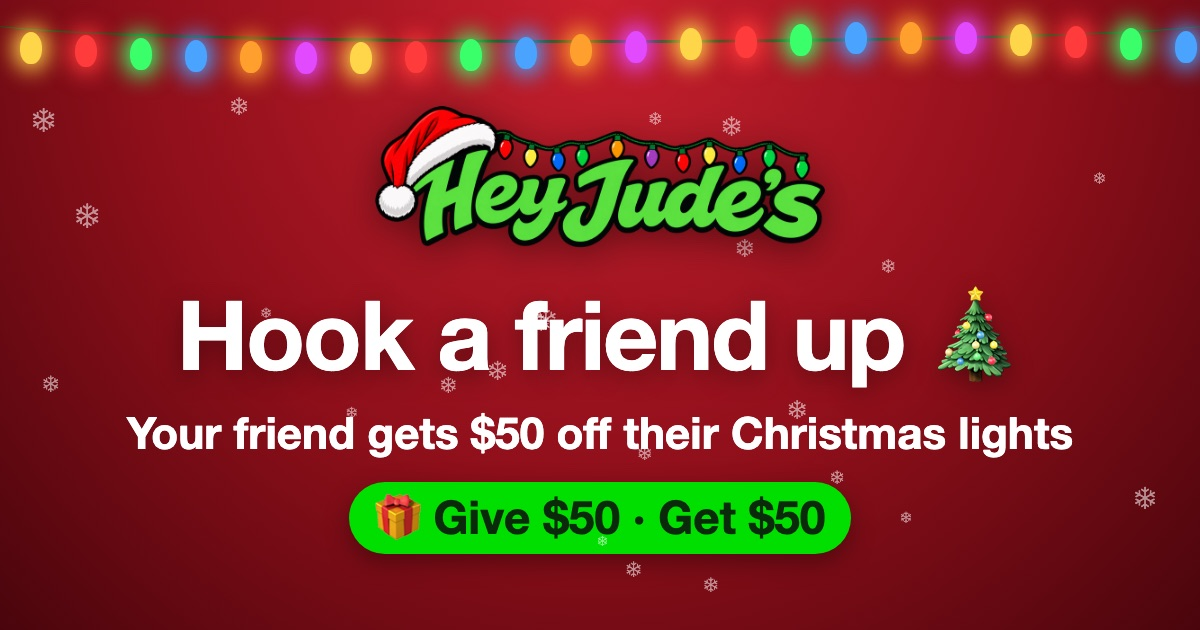
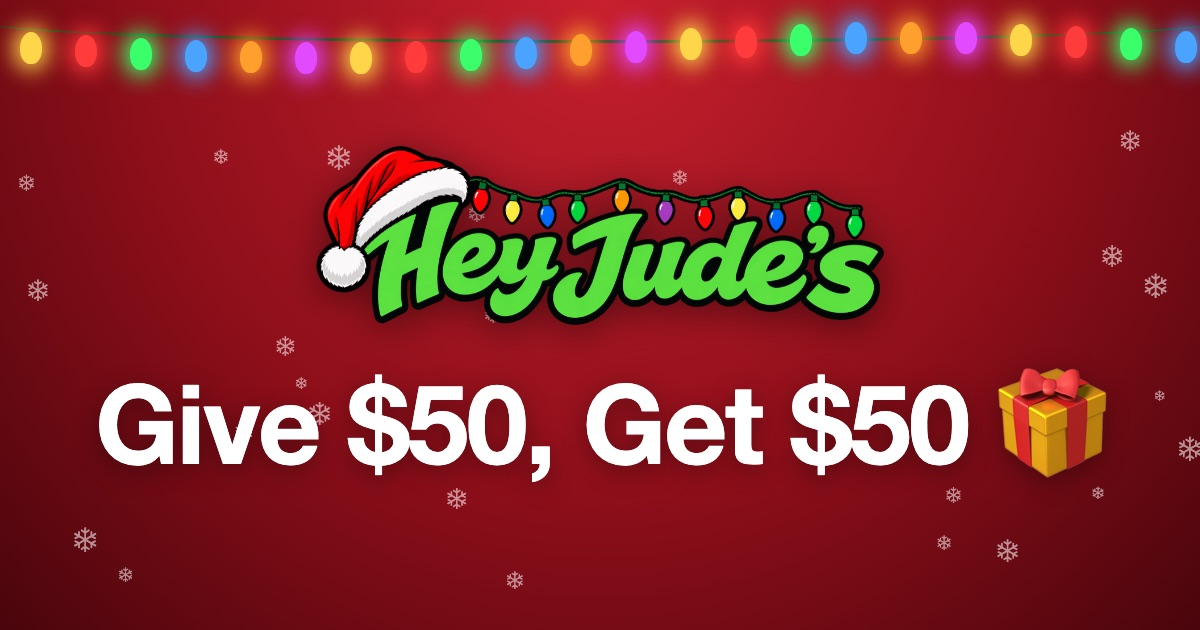
Preview: simpler referral share card

diff --git a/api/app-state.js b/api/app-state.js
@@ -283,7 +283,7 @@ export default async function handler(req, res) {
       let html = '';
       try { html = await (await fetch(`${origin}/index.html`)).text(); } catch { html = ''; }
       if (!html) return res.redirect(302, `/index.html`);
-      const title = 'Give $50, get $50 🎄 — Hey Jude’s';
+      const title = 'Hook a friend up 🎄';
       const desc = 'Give a friend $50 off their Christmas lights — get $50 when Jude sells.';
       const img = `${origin}/refer-og.jpg`;
       const meta = `<meta property="og:title" content="${title}"><meta property="og:description" content="${desc}"><meta property="og:image" content="${img}"><meta property="og:image:width" content="1200"><meta property="og:image:height" content="630"><meta property="og:type" content="website"><meta name="twitter:card" content="summary_large_image"><meta name="twitter:image" content="${img}"><meta name="description" content="${desc}">`;
